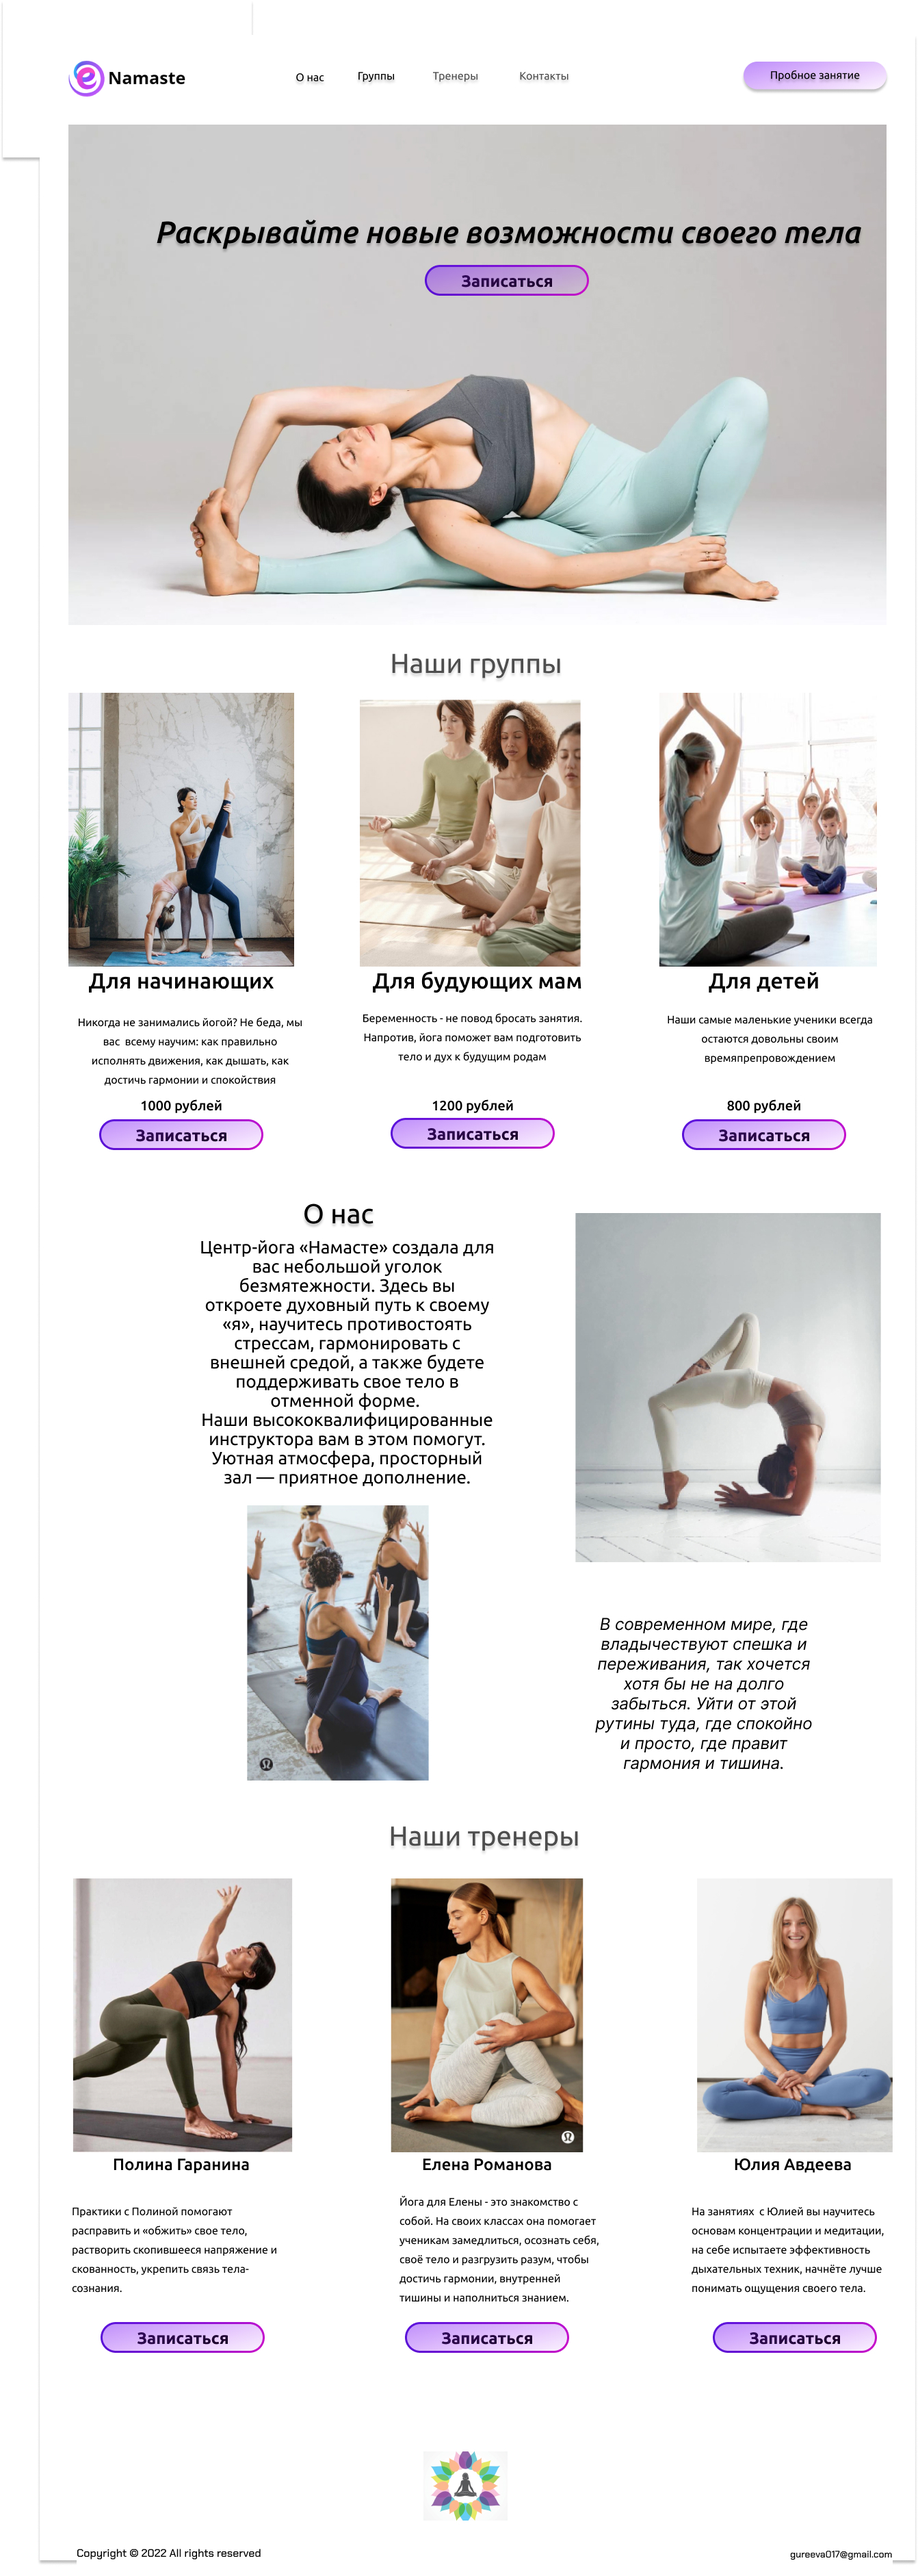
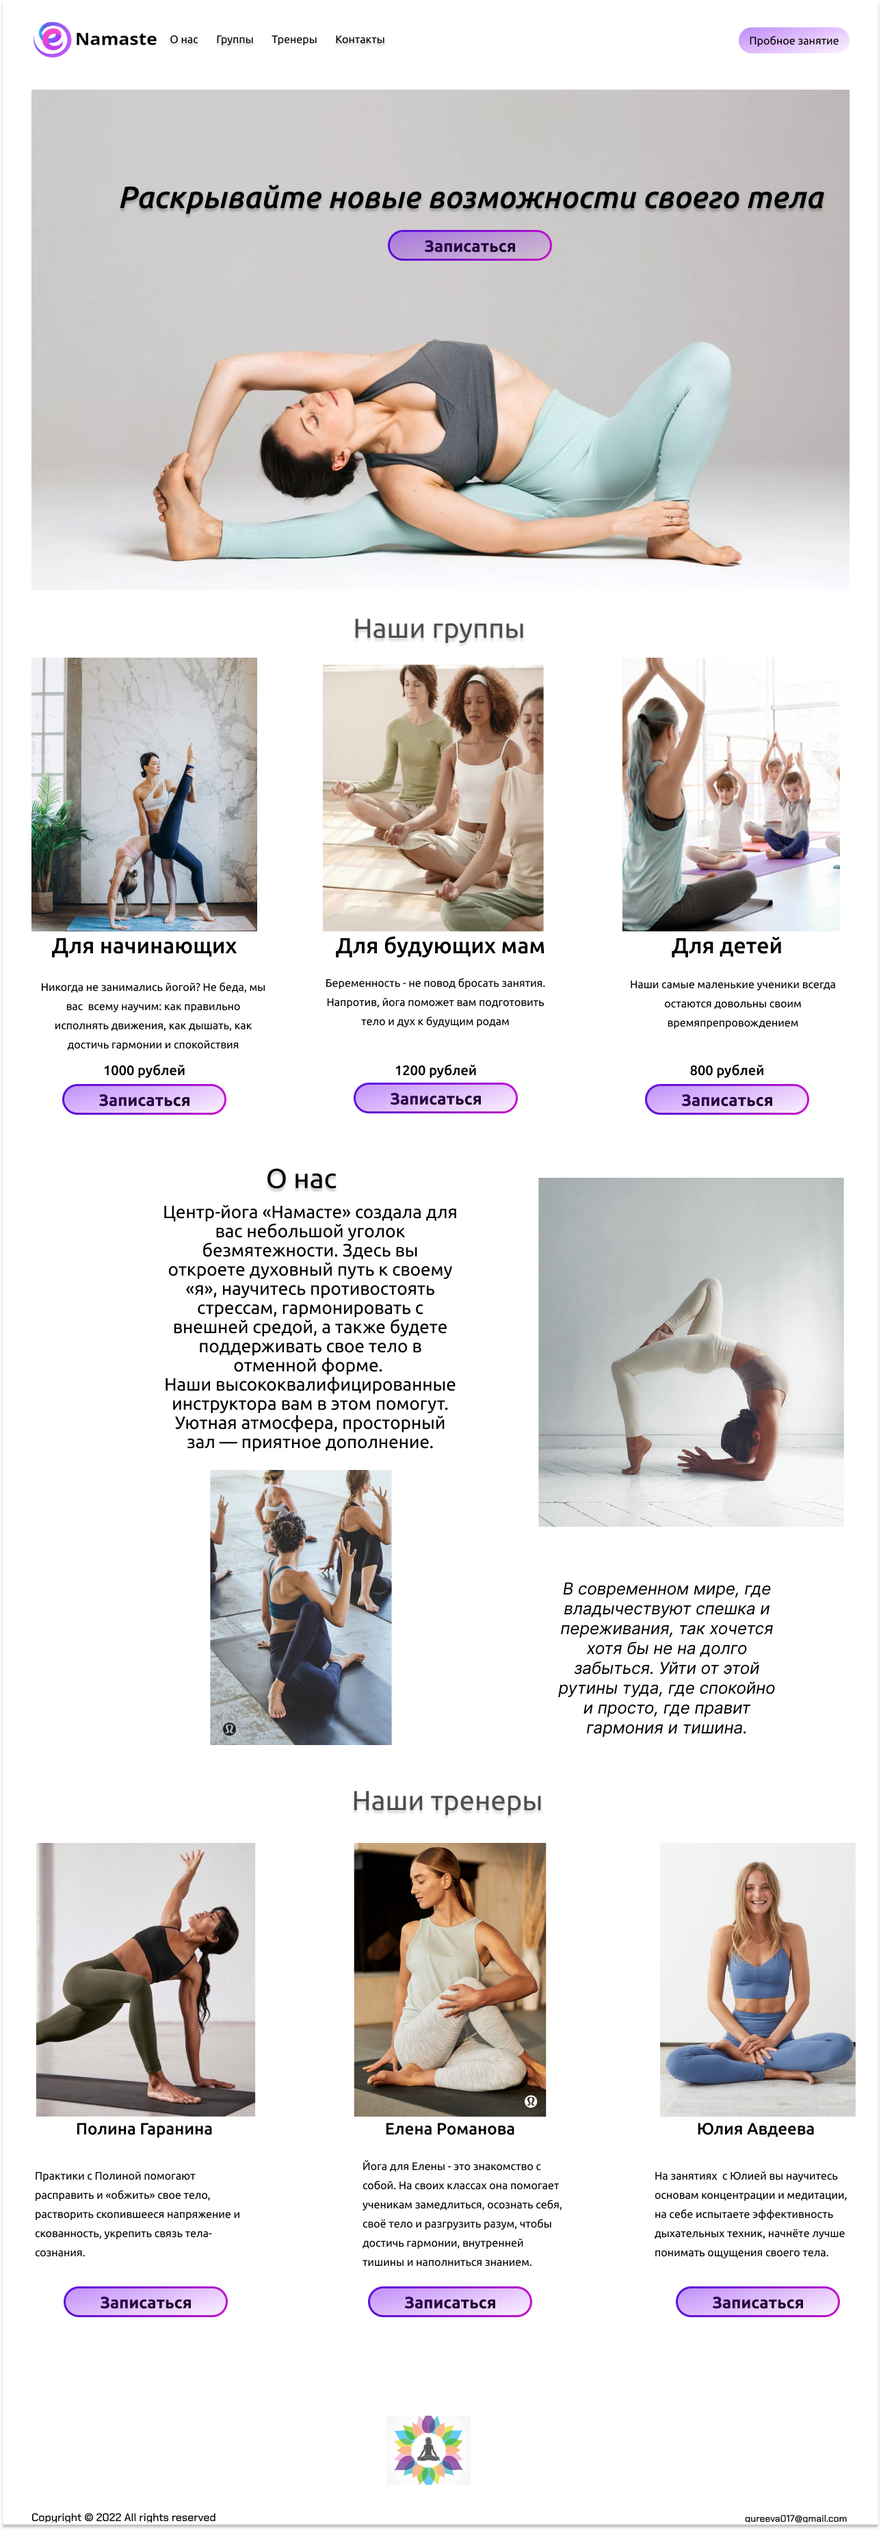
feat: добавила header

Changed region(s): [[0.0, 0.0, 1.0, 1.0], [0.7453, 0.7154, 0.9627, 0.9332]]

diff --git a/index.html b/index.html
@@ -1,5 +1,6 @@
 <!DOCTYPE html>
 <html lang="ru">
+
 <head>
   <meta charset="UTF-8">
   <meta http-equiv="X-UA-Compatible" content="IE=edge">
@@ -7,20 +8,42 @@
   <link rel="stylesheet" href="./pages/index.css">
   <title>Namaste</title>
 </head>
+
 <body class="page">
+  <div class="wrapper">
   <header class="header">
-    <nav>
-       <ul>
-         <li><a href="#">О нас</a></li>
-         <li><a href="#">Группы</a></li>
-         <li><a href="#">Тренеры</a></li>
-         <li><a href="#">Контакты</a></li>
-    </ul>
-  </nav>
-    <h1 class="header__title">Раскрывайте новые возможности своего тела</h1>
+      <nav class="navigation">
+        <div class="navigation__container">
+          <a class="link" href="#">
+            <img class="logo" src="./images/header/logo.png" alt="Логотип курсов по йоге Namaste">
+          </a>
+          <ul class="lists header__lists">
+            <li class="list header__list">
+              <a class="link header__link" href="#">О нас</a>
+            </li>
+            <li class="list header__list">
+              <a class="link header__link" href="#">Группы</a>
+            </li>
+            <li class="list header__list">
+              <a class="link header__link" href="#">Тренеры</a>
+            </li>
+            <li class="list header__list">
+              <a class="link header__link" href="#">Контакты</a>
+            </li>
+          </ul>
+        </div>
+        <a class="button header__button" href="#"">Пробное занятие</a>
+      </nav>
+      <div class="header__container">
+        <h1 class="header__title">Раскрывайте новые возможности своего тела</h1>
+        <a class="button header__button header__button-container" href="#">Записаться</a>
+      </div>
   </header>
-  <main class="main"></main>
-  <footer class="footer"></footer>
-  <script src="./script/index.js"></script>
+  <main>
+
+  </main>
+  <footer></footer>
+  </div>
 </body>
+
 </html>

diff --git a/pages/index.css b/pages/index.css
@@ -1,12 +1,34 @@
 @import '../vendor/normalize.css';
 @import '../vendor/variables.css';
 @import '../vendor/fonts/fonts.css';
-/* Blocks */ 
+/* Blocks */
 @import '../blocks/page/page.css';
-/* Header */ 
+/* Header */
 @import '../blocks/header/header.css';
 @import '../blocks/header/__title/header__title.css';
+@import '../blocks/header/__link/header__link.css';
+@import '../blocks/header/__link/_active/header__link_active.css';
+@import '../blocks/header/__container/header__container.css';
+@import '../blocks/header/__lists/header__lists.css';
+@import '../blocks/header/__list/header__list.css';
+@import '../blocks/header/__button/header__button.css';
+/* Navigation */
+@import '../blocks/navigation/navigation.css';
+@import '../blocks/navigation/__container/navigation__container.css';
+/* Lists */
+@import '../blocks/lists/list.css';
+/* Button */
+@import '../blocks/button/button.css';
 /* Main */
 @import '../blocks/main/main.css';
+/* Logo */
+@import '../blocks/logo/logo.css';
+/* Link */
+@import '../blocks/link/link.css';
 /* Footer */
 @import '../blocks/footer/footer.css';
+
+
+.debug{
+  border: solid 1px red;
+}

diff --git a/blocks/header/__container/header__container.css b/blocks/header/__container/header__container.css
@@ -1,0 +1,26 @@
+.header__container{
+  max-width: 1196px;
+  height: 731px;
+  background:url('../../../images/header/header-bg.png') no-repeat;
+  background-size: contain;
+  background-position: center;
+  text-align: center;
+}
+
+@media screen and (max-width: 1080px){
+  .header__container{
+    height: 532px;
+  }
+}
+
+@media screen and (max-width: 880px){
+  .header__container{
+    height: 406px;
+  }
+}
+
+@media screen and (max-width: 540px){
+  .header__container{
+    height: 321px;
+  }
+}

diff --git a/blocks/header/__title/header__title.css b/blocks/header/__title/header__title.css
@@ -1,3 +1,32 @@
 .header__title{
-  
+  font-style: italic;
+  font-weight: 500;
+  font-size: 45px;
+  line-height: 28px;
+  color: var(--color-black);
+
+  text-shadow: 0px 4px 4px rgba(0, 0, 0, 0.25);
+}
+
+.header__title:hover{
+}
+
+@media screen and (max-width:1024px) {
+  .header__title{
+  }
+}
+
+@media screen and (max-width:768px) {
+  .header__title{
+  }
+}
+
+@media screen and (max-width:480px) {
+  .header__title{
+  }
+}
+
+@media screen and (max-width:320px) {
+  .header__title{
+  }
 }

diff --git a/blocks/lists/lists.css b/blocks/lists/lists.css
@@ -1,0 +1,10 @@
+.lists{
+  list-style-type: none;
+  display: flex;
+  justify-content: space-between;
+  padding-left: 25px;
+  padding-right: 25px;
+}
+.lists li a{
+  text-decoration: none;
+}

diff --git a/blocks/button/button.css b/blocks/button/button.css
@@ -1,0 +1,7 @@
+.button{
+  border-radius: 24px;
+  background: var(--color-button);
+  display: flex;
+  align-items: center;
+  justify-content: center;
+}

diff --git a/blocks/header/__link/header__link.css b/blocks/header/__link/header__link.css
@@ -1,0 +1,7 @@
+.header__link{
+  color: var(--color-black);
+  font-style: normal;
+  font-weight: 400;
+  font-size: 16px;
+  line-height: 0;
+}

diff --git a/blocks/navigation/__container/navigation__container.css b/blocks/navigation/__container/navigation__container.css
@@ -1,0 +1,6 @@
+.navigation__container{
+  display: flex;
+  max-height: 57px;
+  min-height: 57px;
+  height: 100%;
+}

diff --git a/blocks/header/header.css b/blocks/header/header.css
@@ -1,3 +1,6 @@
 .header{
-  
+  padding: 30px 0 0 0 ;
+  width: 100vw;
+  max-width: 1196px;
+  min-width: 320px;
 }

diff --git a/blocks/header/nav/conteiner.css b/blocks/header/nav/conteiner.css
@@ -1,0 +1,6 @@
+.conteiner{
+  max-height: 55px;
+  min-height: 55px;
+  max-width: 1235px;
+  min-width: 1235px;
+}

diff --git a/blocks/header/__lists/header__lists.css b/blocks/header/__lists/header__lists.css
@@ -1,0 +1,6 @@
+.header__lists{
+  margin: 0 0 0 16px;
+  display: flex;
+  align-items: center;
+  padding: 0;
+}
